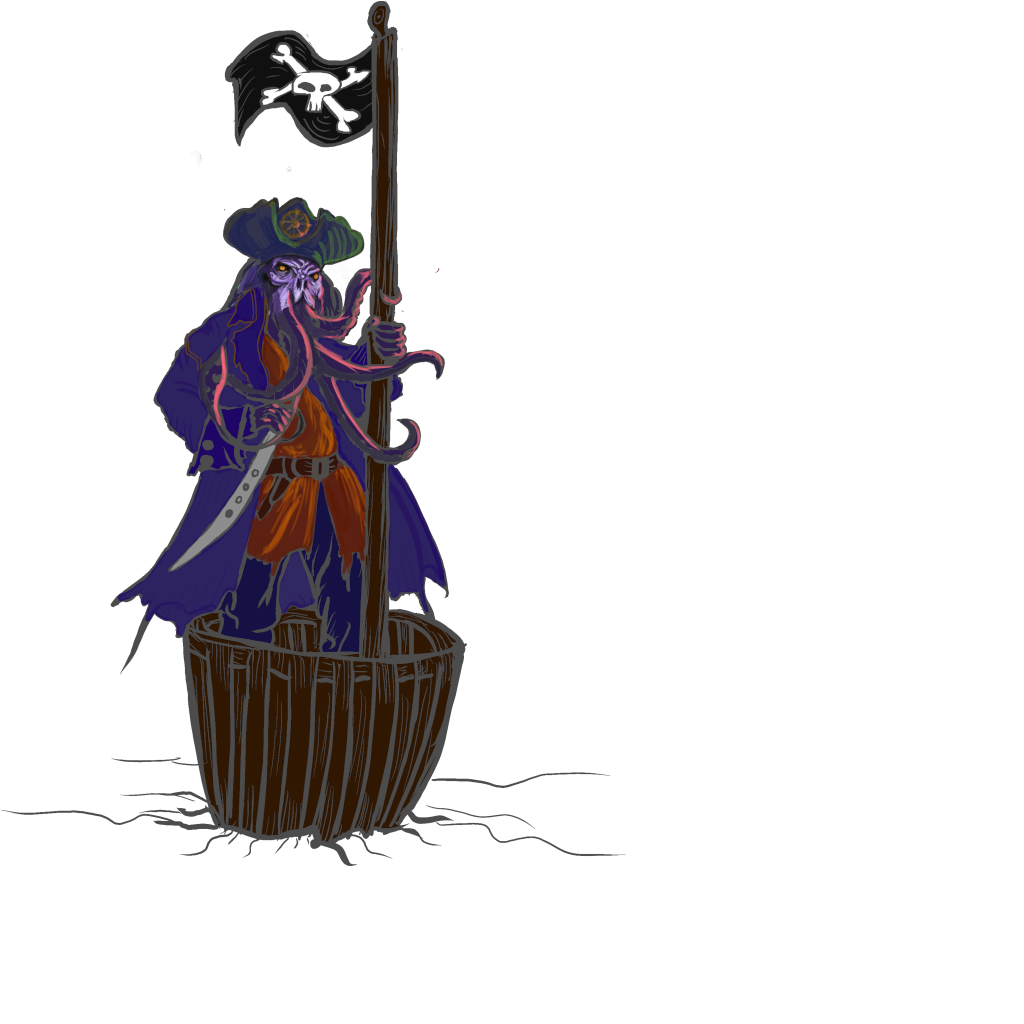
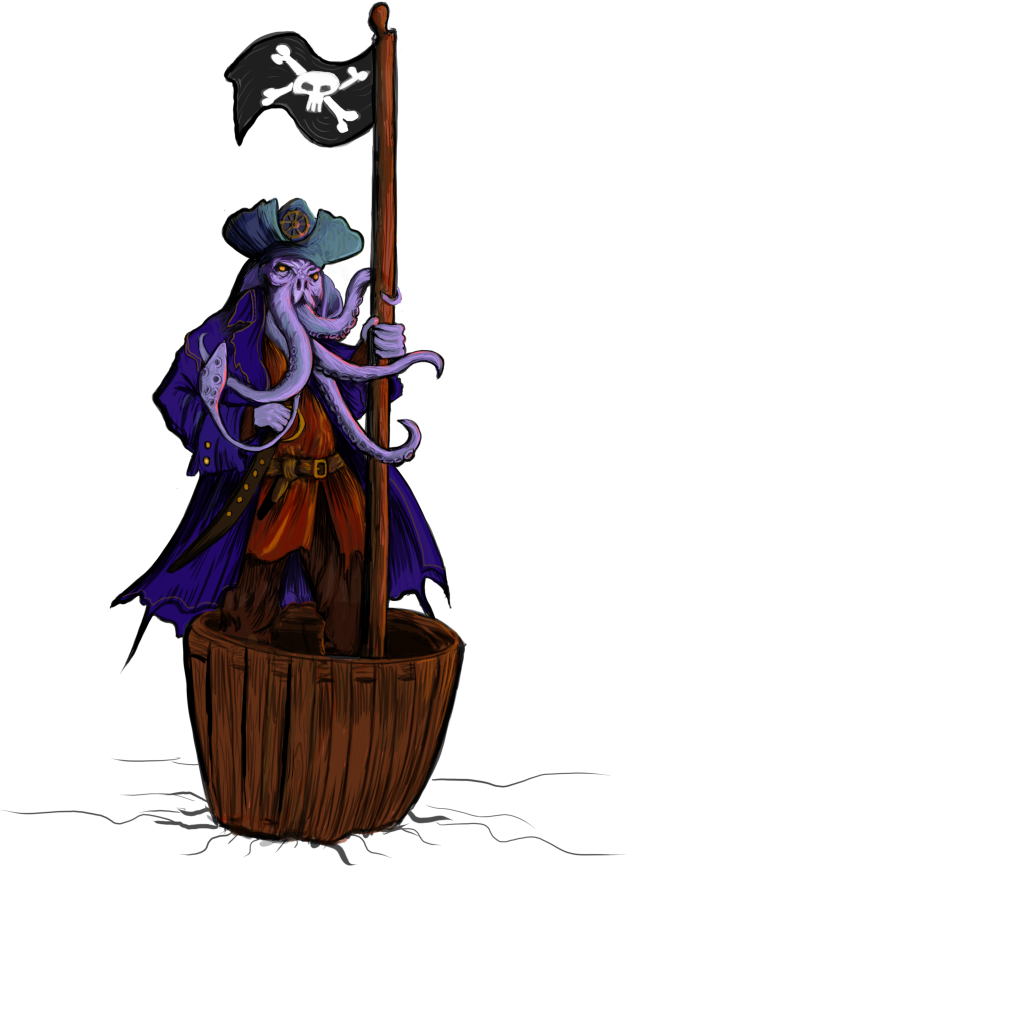
- minor update to sprite  - fixed spawn logic of ExperimentalCannon

Changed region(s): [[0.0938, 0.0, 0.4688, 0.8438]]

diff --git a/src/main/java/thePirate/relics/ExperimentalCannon.java b/src/main/java/thePirate/relics/ExperimentalCannon.java
@@ -7,6 +7,7 @@ import com.megacrit.cardcrawl.cards.AbstractCard;
 import com.megacrit.cardcrawl.characters.AbstractPlayer;
 import com.megacrit.cardcrawl.dungeons.AbstractDungeon;
 import com.megacrit.cardcrawl.monsters.AbstractMonster;
+import com.megacrit.cardcrawl.relics.AbstractRelic;
 import thePirate.PirateMod;
 import thePirate.powers.FreeCannonballPower;
 import thePirate.powers.PlayCannonballTwicePower;
@@ -47,6 +48,17 @@ public class ExperimentalCannon extends AbstractCannonRelic {
         }
         super.onEquip();
     }
+
+    public boolean canSpawn() {
+        boolean canSpawn = false;
+        for (AbstractRelic relic : AbstractDungeon.player.relics){
+            if (relic instanceof AbstractCannonRelic && !(relic instanceof ExperimentalCannon)){
+                canSpawn = true;
+            }
+        }
+        return canSpawn;
+    }
+
 
     @Override
     public List<AbstractGameAction> onUseCannon(AbstractPlayer p, AbstractMonster m) {
